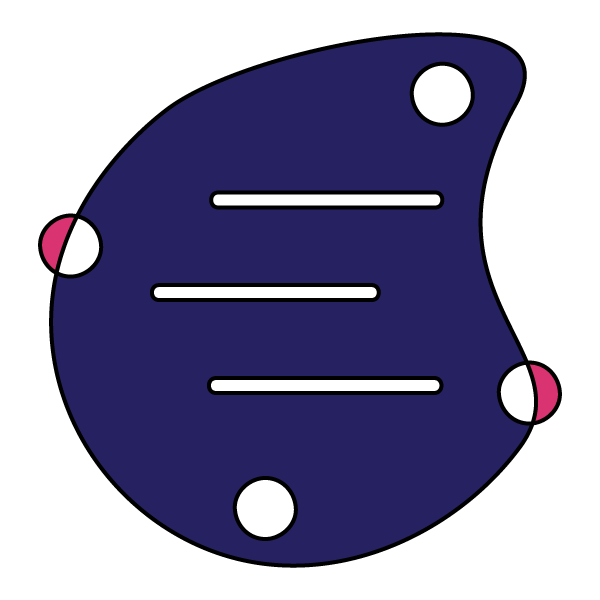
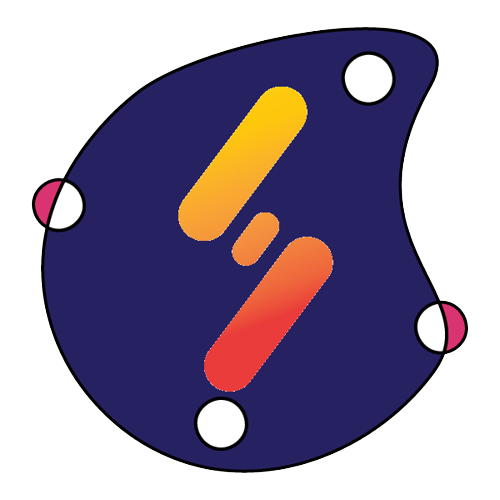
updates front end

diff --git a/Ultraviolet-Static/public/index.html b/Ultraviolet-Static/public/index.html
@@ -6,7 +6,7 @@
       name="viewport"
       content="width=device-width, initial-scale=1.0, shrink-to-fit=no"
     />
-    <title>Ultraviolet | Sophisticated Web Proxy</title>
+    <title>Spotaviolet</title>
     <meta
       name="description"
       content="Ultraviolet is a highly sophisticated proxy used for evading internet censorship or accessing websites in a controlled sandbox using the power of service-workers. Unblock sites today!"
@@ -21,7 +21,7 @@
       content="#434c5e"
     />
     <meta name="googlebot" content="index, follow, snippet" />
-    <link rel="shortcut icon" content="favicon.ico" />
+    <link rel="shortcut icon" content="uv.png" />
     <link rel="stylesheet" href="index.css" />
     <script src="uv/uv.bundle.js" defer></script>
     <script src="uv/uv.config.js" defer></script>
@@ -68,62 +68,48 @@
       class="flex-center logo-wrapper header-center"
     >
       <img class="logo" src="uv.png" alt="Ultraviolet" />
-      <h1>Ultraviolet | TN</h1>
+      <h1>Spotaviolet | Web Unblocker</h1>
     </div>
     <div class="flex-center desc">
       <p>
-        Ultraviolet is highly sophisticated proxy used for evading internet
-        censorship.
+        Spotaviolet is bassed off of the highly sophisticated proxy used for evading internet
+        censorship called Ultraviolet. You can use it to bypass the scool/work restrictions and have fun ;)
       </p>
     </div>
 
-    <form id="uv-form" class="flex-center">
-      <input
-        id="uv-search-engine"
-        value="https://www.google.com/search?q=%s"
-        type="hidden"
-      />
-      <input id="fake-uv-address" type="text" placeholder="Search the web freely">
-      <input id="uv-address" type="text" placeholder="" style="border-color: #0d0e0e; position: absolute; bottom: 0;">
-      <input id="fake-uv-address"style="width: 50px; margin-left: 10px" type="submit" onclick="submitForm()" value="GO">
-    </form>
+    <div class="flex-center">
+      <input class="fake-uv-address" type="text" placeholder="Search the web freely">
+      <input class="fake-uv-address" style="width: 50px; margin-left: 10px" type="submit" onclick="troll()" value="GO">
+    </div>
+    
     <div class="desc left-margin">
       <p id="uv-error"></p>
       <pre id="uv-error-code"></pre>
     </div>
     <footer>
       <a
-        title="The TitaniumNetwork GitHub organization"
-        href="https://github.com/titaniumnetwork-dev"
-        >TitaniumNetwork</a
-      >
-      <a title="The TitaniumNetwork Discord" href="https://discord.gg/unblock"
-        >Discord</a
+        title="My Webiste"
+        href="https://spotech.dev"
+        >Spotech.dev</a
       >
       <a
-        title="The TompHTTP GitHub organization"
-        href="https://github.com/tomphttp"
-        >TompHTTP</a
-      >
-      <a
-        title="The official deployment repository for Ultraviolet"
-        href="https://github.com/titaniumnetwork-dev/Ultraviolet-App"
+        title="My GitHub"
+        href="https://github.com/SpotechYT"
         >GitHub</a
       >
-      <a
-        title="License information"
-        href="credits.html"
-        style="margin-left: auto"
-        >Credits</a
-      >
-      <span>Ultraviolet &copy; TN 2022</span>
+      <form id="uv-form" class="flex-center">
+        <input
+          id="uv-search-engine"
+          value="https://www.google.com/search?q=%s"
+          type="hidden"
+        />
+        <input id="uv-address" type="text" placeholder="" style="border-color: #0d0e0e; position: absolute; bottom: 0; justify-content: center;">
+      </form>
     </footer>
   </body>
   <script>
     function troll() {
-      while (true){
         window.open("https://www.youtube.com/watch?v=dQw4w9WgXcQ");
-      }
     }
-</script>
+  </script>
 </html>

diff --git a/Ultraviolet-Static/public/index.css b/Ultraviolet-Static/public/index.css
@@ -120,7 +120,7 @@ footer a:hover {
   transition: border-radius 0.1s;
 }
 
-#fake-uv-address {
+.fake-uv-address {
   background: none;
   font-family: inherit;
   padding: 0px 17px;
